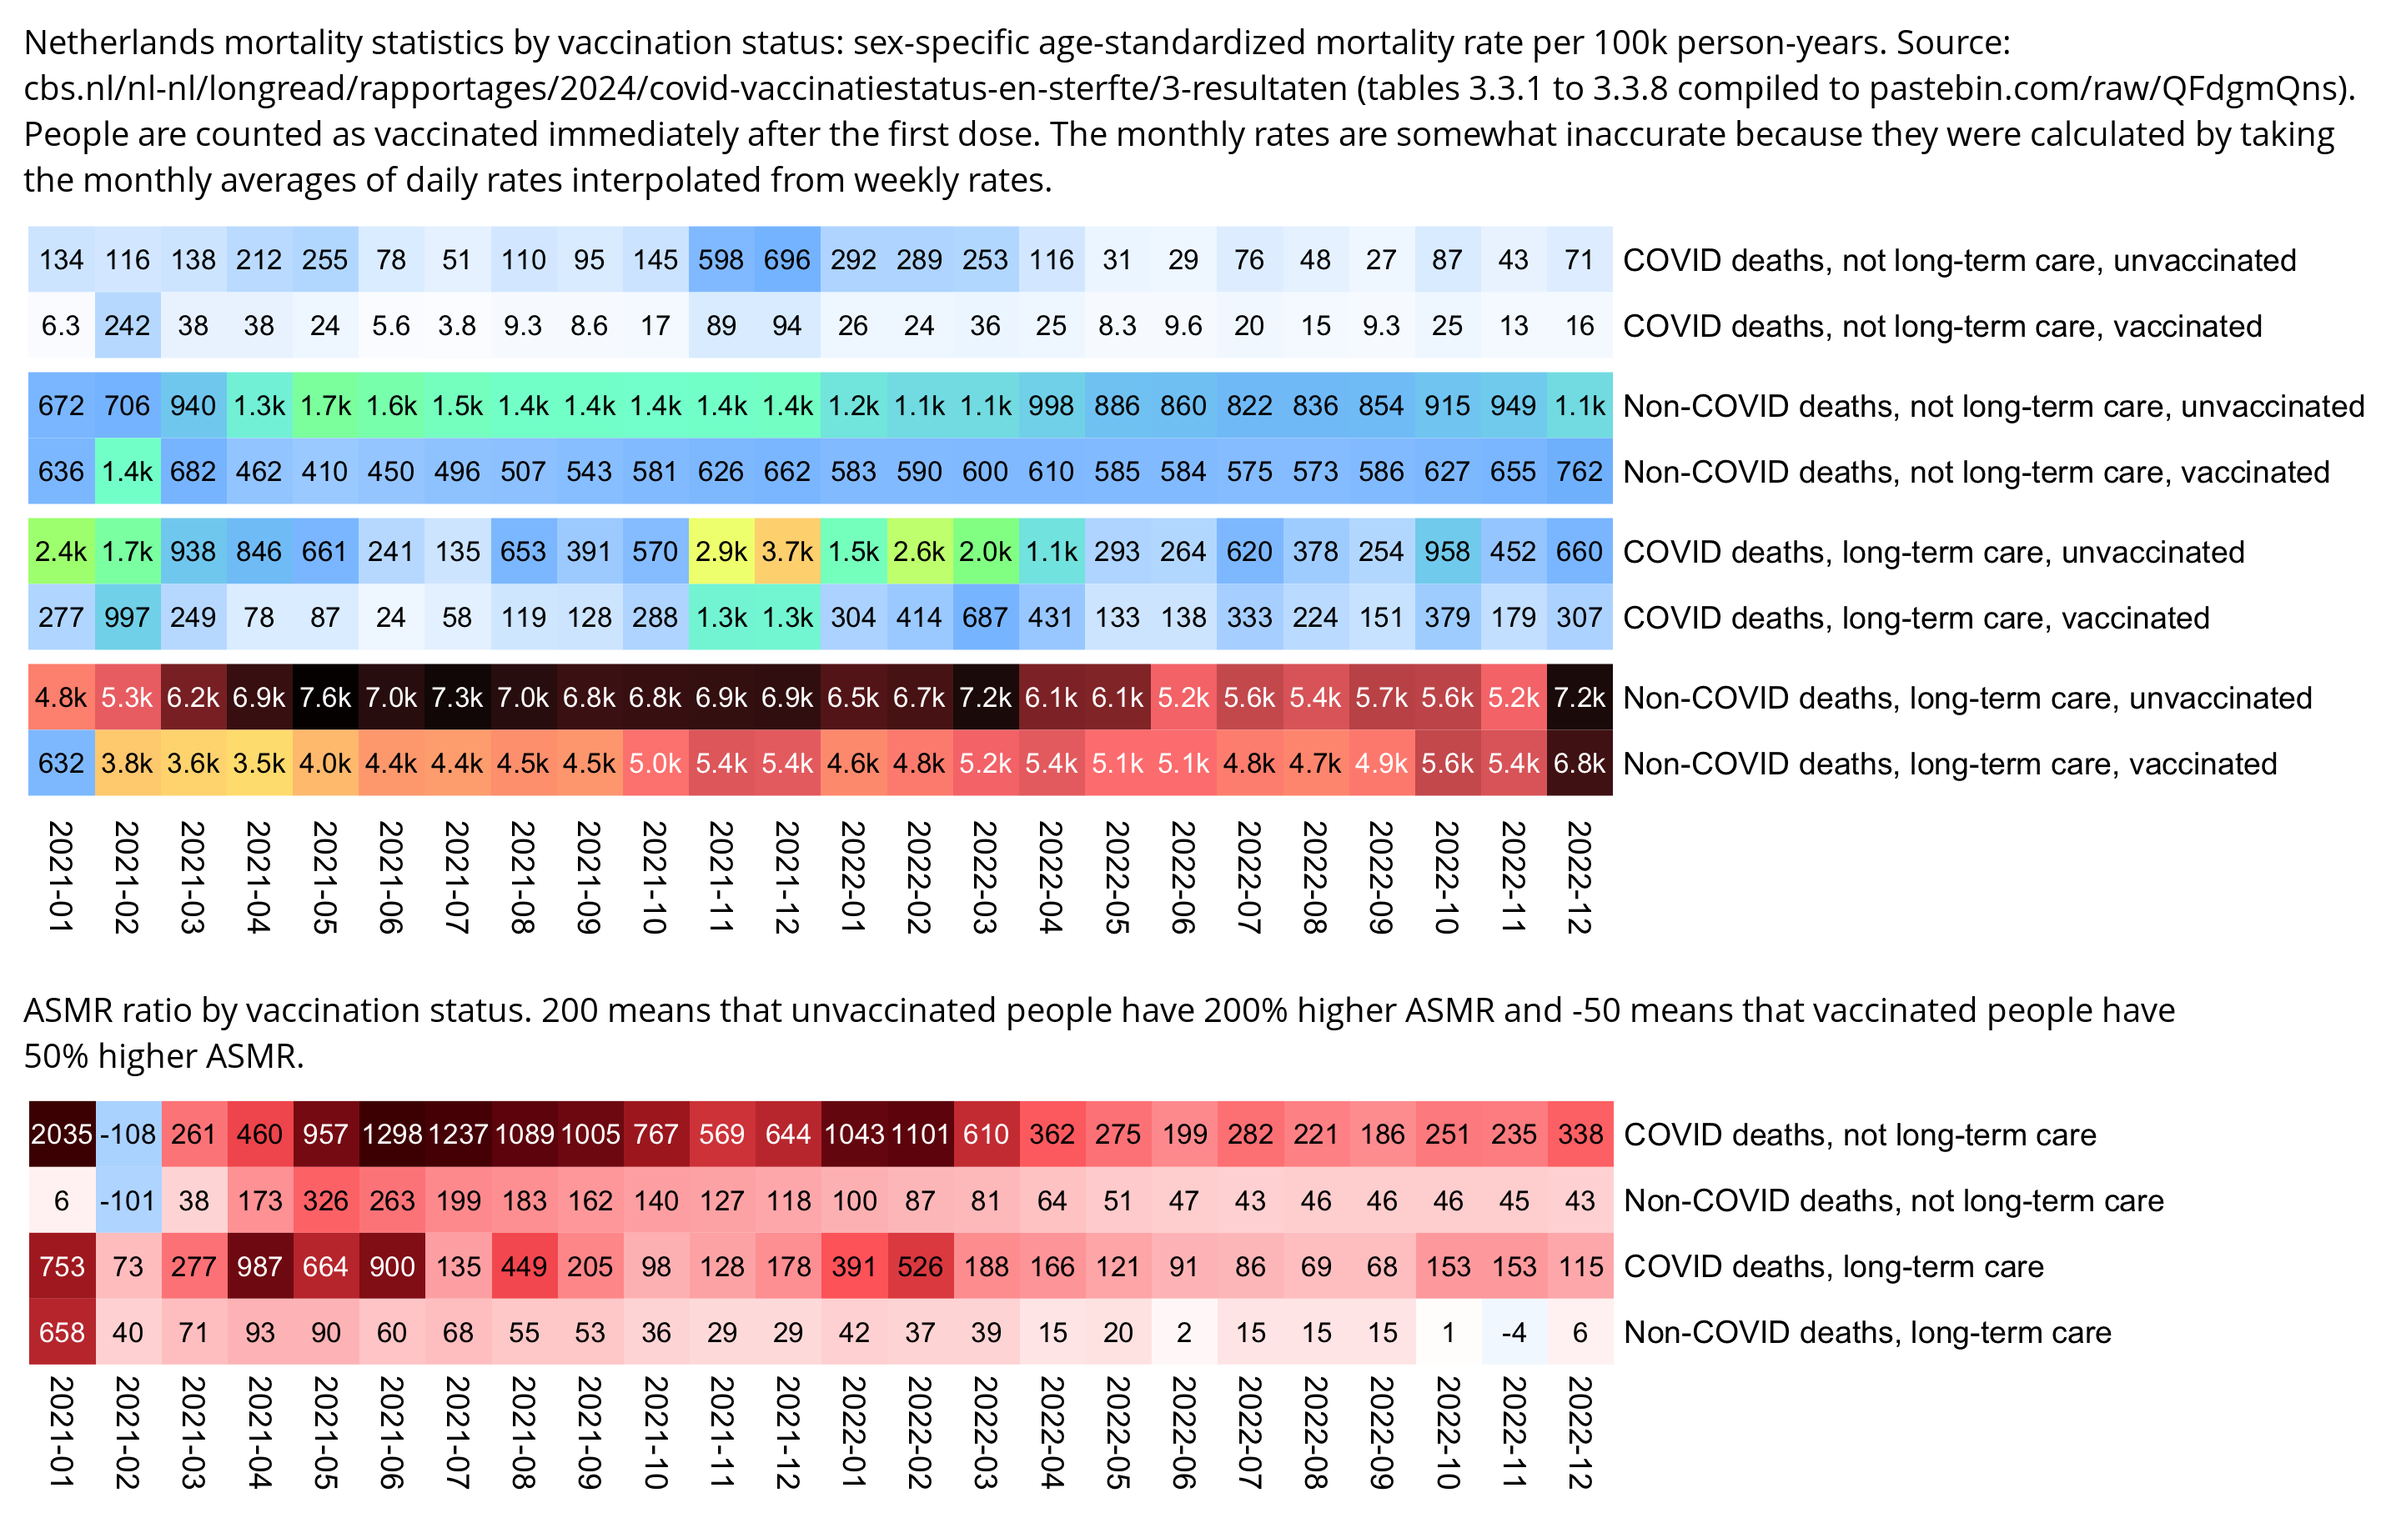
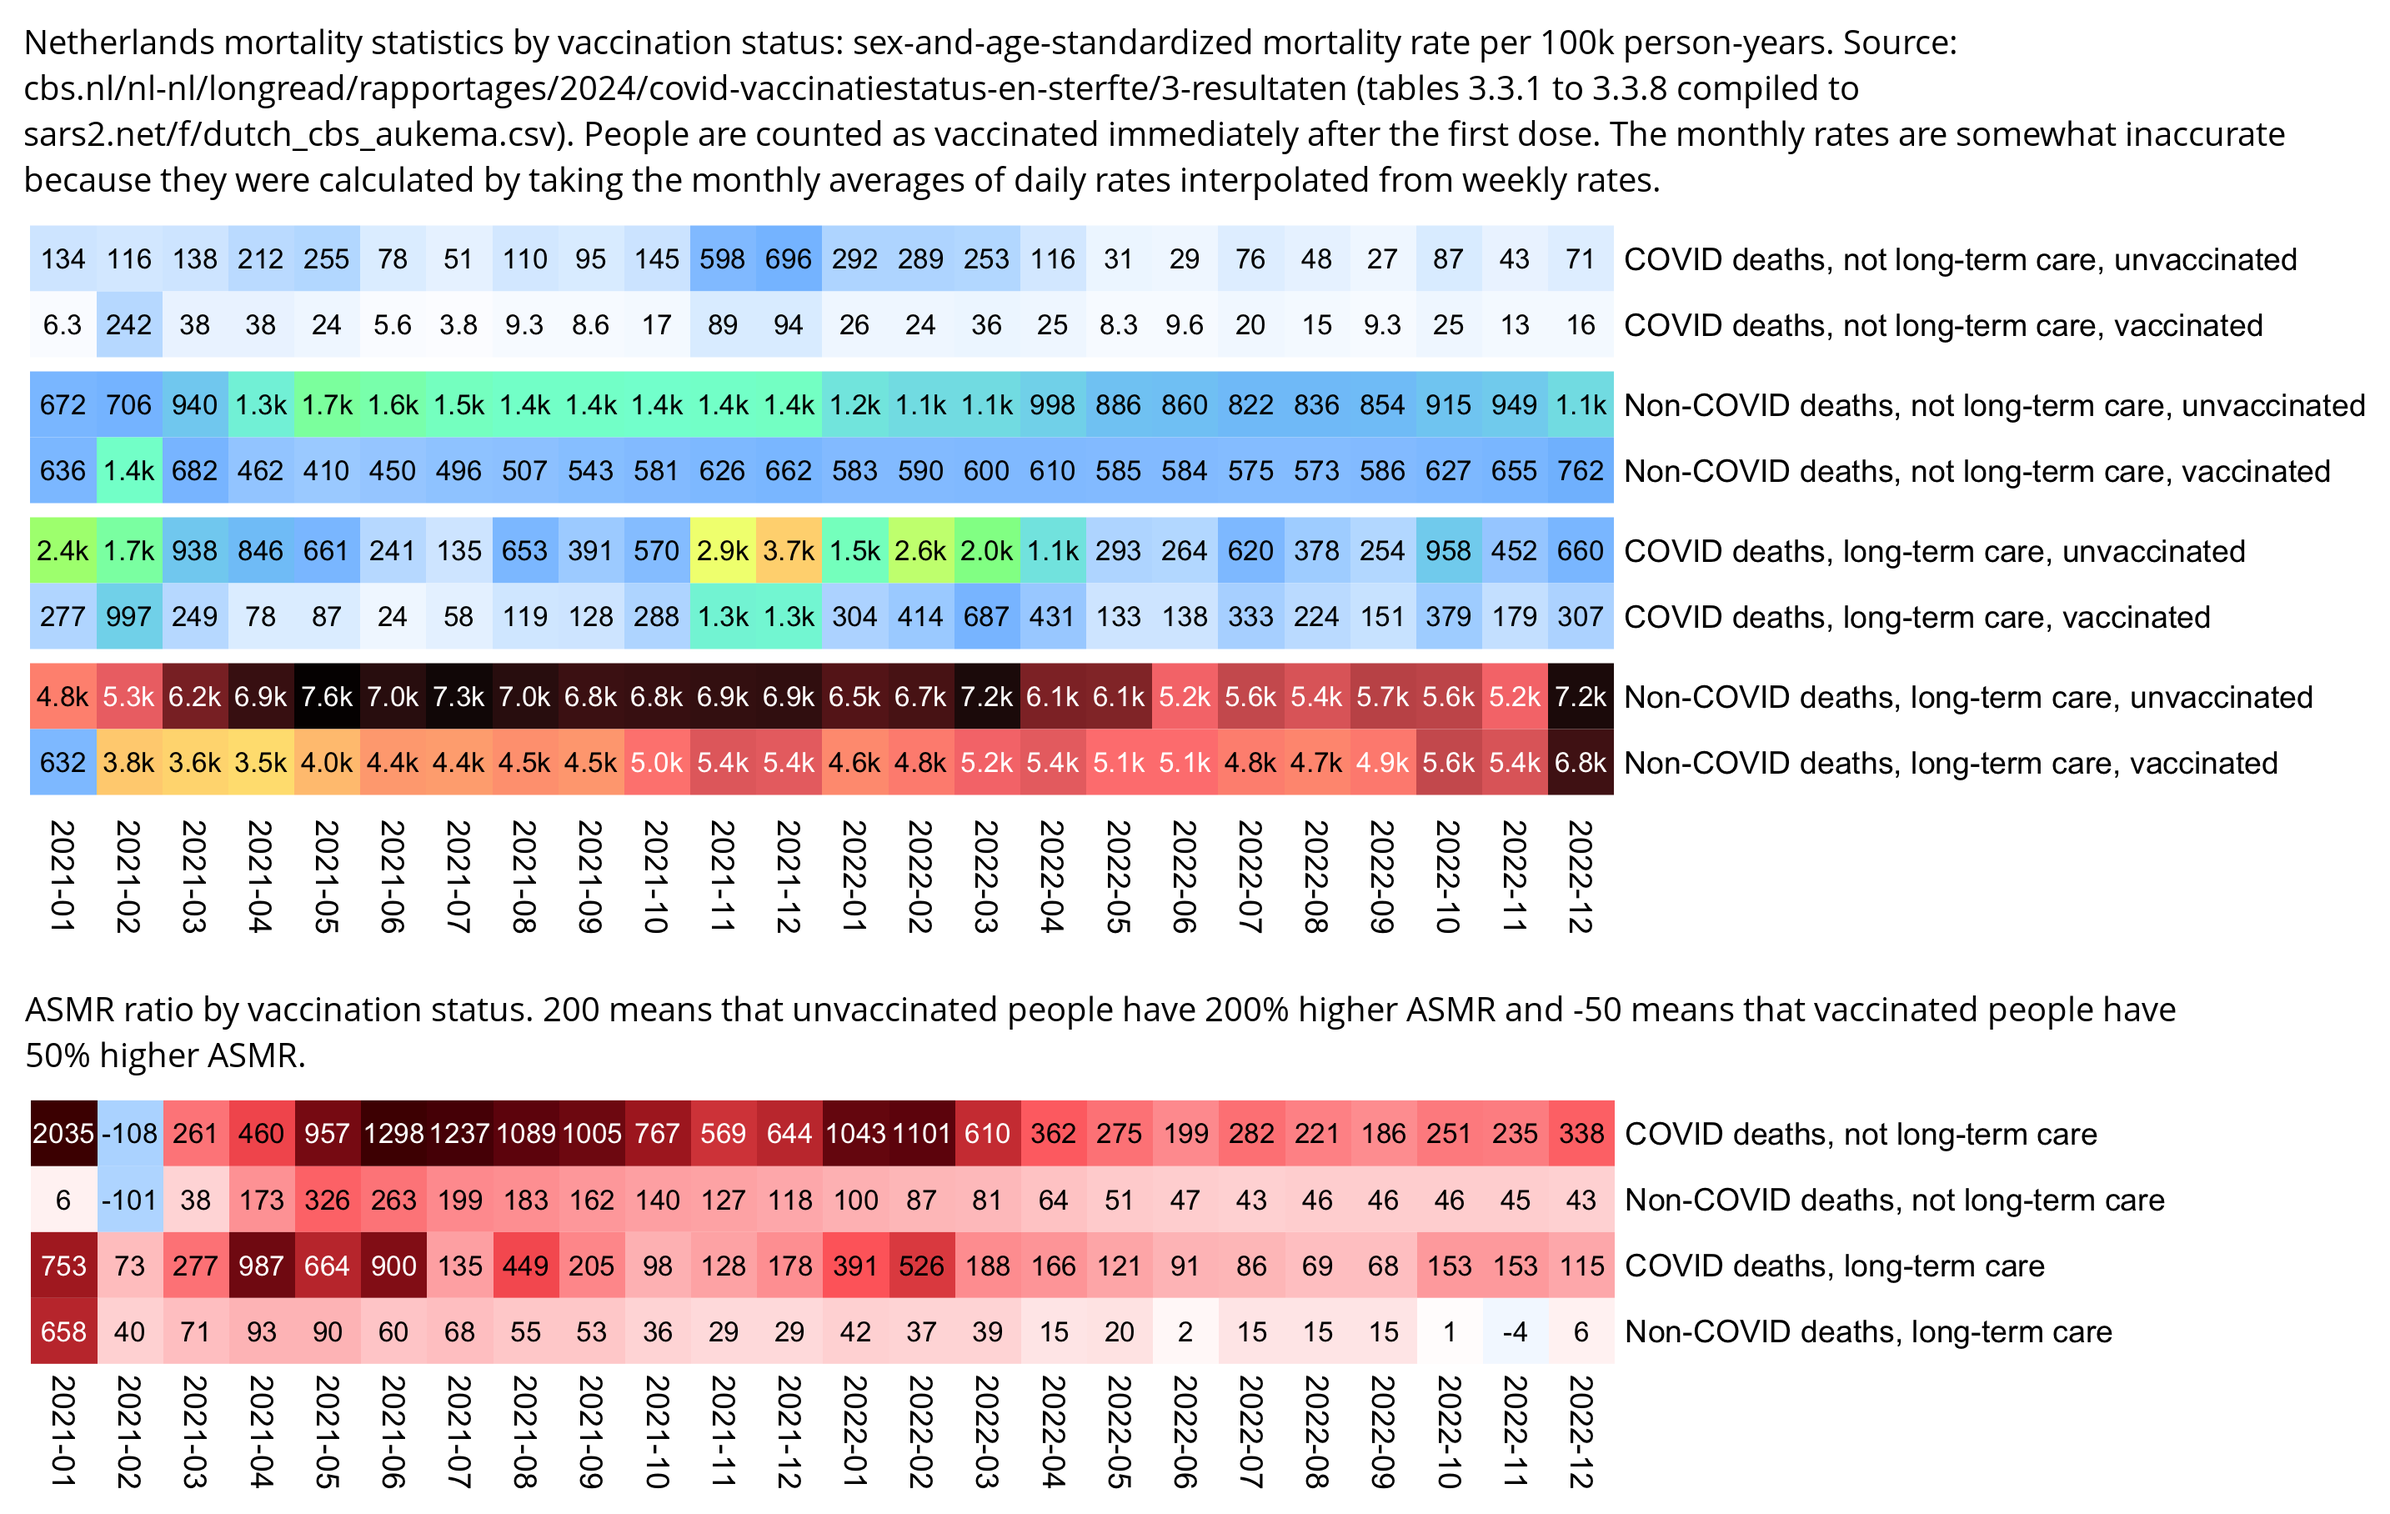
a

Changed region(s): [[0.0, 0.0, 0.9934, 0.6167], [0.0, 0.6476, 0.9002, 0.9868]]

diff --git a/debunk.html b/debunk.html
@@ -64,7 +64,17 @@ th{background:#eee;text-align:left;font-weight:bold}
 <li><a href=#David_Bell_Increase_in_cancer_deaths_in_ages_15_44_at_CDC_WONDER>David Bell: Increase in cancer deaths in ages 15-44 at CDC WONDER</a></li>
 <li><a href=#Clare_Craig_Mortality_rate_by_percentage_of_vaccinated_people_in_US_counties>Clare Craig: Mortality rate by percentage of vaccinated people in US counties</a></li>
 <li><a href=#Martin_Neil_and_Norman_Fenton_Simulation_in_March_2024_preprint_about_the_cheap_trick>Martin Neil and Norman Fenton: Simulation in March 2024 preprint about the cheap trick</a></li>
-<li><a href=#Wouter_Aukema_Dutch_CBS_mortality_statistics_by_vaccination_status>Wouter Aukema: Dutch CBS mortality statistics by vaccination status</a></li>
+<li><a href=#Wouter_Aukema_Dutch_CBS_mortality_statistics_by_vaccination_status>Wouter Aukema: Dutch CBS mortality statistics by vaccination status</a>
+<ul>
+<li><a href=#Tweet_by_Denis_Rancourt>Tweet by Denis Rancourt</a></li>
+<li><a href=#Unvaccinated_people_had_a_bigger_spike_in_all_cause_deaths_in_December_2021>Unvaccinated people had a bigger spike in all-cause deaths in December 2021</a></li>
+<li><a href=#The_spike_in_deaths_in_December_2022_may_have_been_caused_by_influenza>The spike in deaths in December 2022 may have been caused by influenza</a></li>
+<li><a href=#All_cause_ASMR>All-cause ASMR</a></li>
+<li><a href=#Excess_mortality_compared_to_other_variables>Excess mortality compared to other variables</a></li>
+<li><a href=#Percentage_of_COVID_deaths_in_vaccinated_people>Percentage of COVID deaths in vaccinated people</a></li>
+<li><a href=#Heatmap_for_COVID_and_non_COVID_ASMR>Heatmap for COVID and non-COVID ASMR</a></li>
+<li><a href=#Plot_where_deaths_were_double_counted>Plot where deaths were double-counted</a></li>
+</ul></li>
 </ul>
 
 <h2>
@@ -989,6 +999,9 @@ ggsave(&quot;1.png&quot;,width=3,height=3,dpi=450)</pre>
 <h2>
 <a href=#Wouter_Aukema_Dutch_CBS_mortality_statistics_by_vaccination_status id=Wouter_Aukema_Dutch_CBS_mortality_statistics_by_vaccination_status>Wouter Aukema: Dutch CBS mortality statistics by vaccination status</a>
 </h2>
+<h3>
+<a href=#Tweet_by_Denis_Rancourt id=Tweet_by_Denis_Rancourt>Tweet by Denis Rancourt</a>
+</h3>
 <p>Denis Rancourt posted this tweet: [<a href="https://twitter.com/denisrancourt/status/1772434188223824079">https://twitter.com/denisrancourt/status/1772434188223824079</a>]</p>
 <div class="width5">
 <img src="i/debunk-aukema-1.jpg">
@@ -1060,6 +1073,9 @@ system(&quot;f=0.png;mogrify -trim $f;w=`identify -format %w $f`;convert -gravit
 COVID              315        765  1080
 not COVID          568       2750  3318
 COVID pct           36         22    25</pre>
+<h3>
+<a href=#Unvaccinated_people_had_a_bigger_spike_in_all_cause_deaths_in_December_2021 id=Unvaccinated_people_had_a_bigger_spike_in_all_cause_deaths_in_December_2021>Unvaccinated people had a bigger spike in all-cause deaths in December 2021</a>
+</h3>
 <p>The plot below shows that compared to the number of deaths in January 2022, the spike in all-cause deaths in December 2021 was a lot higher in unvaccinated people than vaccinated people. (The unvaccinated population size gets smaller over time as more people get vaccinated, but only a small number of people got their first vaccine dose between the start of December 2021 and the end of January 2022.)</p>
 <div class="width6">
 <img src="i/debunk-aukema-4.png">
@@ -1068,6 +1084,9 @@ COVID pct           36         22    25</pre>
 <div class="width6">
 <img src="i/debunk-aukema-7.png">
 </div>
+<h3>
+<a href=#The_spike_in_deaths_in_December_2022_may_have_been_caused_by_influenza id=The_spike_in_deaths_in_December_2022_may_have_been_caused_by_influenza>The spike in deaths in December 2022 may have been caused by influenza</a>
+</h3>
 <p>The Netherlands had a high number of influenza cases in December 2022, which might explain why there was an increase in deaths even though there was a low number of COVID deaths: [<a href="https://app.powerbi.com/view?r=eyJrIjoiYWU4YjUyN2YtMDBkOC00MGI1LTlhN2UtZGE5NThjY2E1ZThhIiwidCI6ImY2MTBjMGI3LWJkMjQtNGIzOS04MTBiLTNkYzI4MGFmYjU5MCIsImMiOjh9">https://app.powerbi.com/view?r=eyJrIjoiYWU4YjUyN2YtMDBkOC00MGI1LTlhN2UtZGE5NThjY2E1ZThhIiwidCI6ImY2MTBjMGI3LWJkMjQtNGIzOS04MTBiLTNkYzI4MGFmYjU5MCIsImMiOjh9</a>]</p>
 <div class="width9">
 <img src="i/debunk-aukema-5.jpg">
@@ -1076,10 +1095,9 @@ COVID pct           36         22    25</pre>
 <div class="width6">
 <img src="i/debunk-aukema-6.png">
 </div>
-<p>In one plot Aukema double-counted deaths, so he had about 5000-7500 deaths per week even though it should've been half of that: [<a href="https://twitter.com/UncleJo46902375/status/1763550999916990885">https://twitter.com/UncleJo46902375/status/1763550999916990885</a>]</p>
-<div class="width5">
-<img src="i/debunk-aukema-3.jpg">
-</div>
+<h3>
+<a href=#All_cause_ASMR id=All_cause_ASMR>All-cause ASMR</a>
+</h3>
 <p>Even though adding together ratios is not possible in many cases, in the case of this dataset it's possible to calculate all-cause ASMR by adding together COVID and non-COVID ASMR, because the denominators are the same:</p>
 <pre>&gt; stdpop=c(70000,30000)
 &gt; t=read.table(header=T,text=&quot;
@@ -1097,18 +1115,33 @@ COVID pct           36         22    25</pre>
 <div class="width6">
 <img src="i/debunk-aukema-8.jpg">
 </div>
+<h3>
+<a href=#Excess_mortality_compared_to_other_variables id=Excess_mortality_compared_to_other_variables>Excess mortality compared to other variables</a>
+</h3>
 <p>Netherlands is also a bad country for calculating a Rancourtian correlation between all-cause mortality and vaccine doses, because the first two doses were rolled out between COVID waves, the first booster was also given earlier than in other countries where it coincided with the Omicron wave, and for some reason there was a small number of deaths during the Omicron wave even though the number of cases and PCR positivity were high:</p>
 <div class="width6">
 <img src="i/debunk-aukema-9.png">
 </div>
-<p>Aukema posted this plot which showed that vaccinated people accounted for about 82% of COVID deaths: [<a href="https://twitter.com/waukema/status/1763512462412845432">https://twitter.com/waukema/status/1763512462412845432</a>]</p>
+<h3>
+<a href=#Percentage_of_COVID_deaths_in_vaccinated_people id=Percentage_of_COVID_deaths_in_vaccinated_people>Percentage of COVID deaths in vaccinated people</a>
+</h3>
+<p>Aukema also posted the plot below which shows that vaccinated people accounted for about 82% of COVID deaths. [<a href="https://twitter.com/waukema/status/1763512462412845432">https://twitter.com/waukema/status/1763512462412845432</a>] However according to the ECDC's vaccine tracker, about 96% of the Dutch population of ages 60 and above had been vacccinated by December 2021, and after that the percentage remained at 96.3% until 2023. [<a href="https://vaccinetracker.ecdc.europa.eu/public/extensions/COVID-19/vaccine-tracker.html#uptake-tab">https://vaccinetracker.ecdc.europa.eu/public/extensions/COVID-19/vaccine-tracker.html#uptake-tab</a>] The percentage might be too high, because in other countries the percentage of vaccinated people in elderly age groups sometimes reaches over 100% (and for example in New Zealand similar statistics were based on the Health Service User population where unvaccinated people are underrepresented, because many people who were not previously included in the population were added to it after they got vaccinated). But anyway, in the elderly age groups which account for most deaths, the percentage of vaccinated people is still probably much higher than 82%.</p>
 <div class="width5">
 <img src="i/debunk-aukema-10.jpg">
 </div>
-<p>However according to the ECDC's vaccine tracker, about 96% of the Dutch population of ages 60 and above had been vacccinated by December 2021, and after that the percentage remained at 96.3% until 2023. [<a href="https://vaccinetracker.ecdc.europa.eu/public/extensions/COVID-19/vaccine-tracker.html#uptake-tab">https://vaccinetracker.ecdc.europa.eu/public/extensions/COVID-19/vaccine-tracker.html#uptake-tab</a>] The percentage might be too high because in other countries these statistics for the percentage of vaccinated people by age group are unreliable. But in the elderly age groups which account for most deaths, the percentage of vaccinated people is still probably much higher than 82%.</p>
-<p>The heatmap below shows that in February 2021 among people who had not been insured for long-term care, vaccinated people had about twice as high ASMR as unvaccinated people, which might be because vulnerable groups of people were priorized during the early vaccine rollout. However after that unvaccinated people had higher ASMR than unvaccinated people almost every month, regardless of whether you look at COVID deaths or non-COVID deaths or if you look at people in long-term care or not. The last row of the second heatmap shows that among people in long-term care, vaccinated people initially had over 50% higher non-COVID mortality than unvaccinated people (which was probably beacuse of the healthy vaccinee effect), but the difference had reached close to zero by the end of 2022:</p>
+<h3>
+<a href=#Heatmap_for_COVID_and_non_COVID_ASMR id=Heatmap_for_COVID_and_non_COVID_ASMR>Heatmap for COVID and non-COVID ASMR</a>
+</h3>
+<p>The heatmap below shows that in February 2021 among people who had not been insured for long-term care, vaccinated people had about twice as high ASMR as unvaccinated people, which might be because vulnerable groups of people were priorized during the early vaccine rollout. However after that unvaccinated people had higher ASMR than unvaccinated people almost every month, regardless of whether you look at COVID deaths or non-COVID deaths or if you look at people in long-term care or not. Among people who had not been vaccinated for long-term care, there were many months when unvaccinated people had over 10 times higher COVID ASMR than vaccinated people. The last row of the second heatmap shows that among people in long-term care, vaccinated people initially had over 50% higher non-COVID mortality than unvaccinated people (which was probably beacuse of the healthy vaccinee effect), but the difference had reached close to zero by the end of 2022:</p>
 <div class="width9">
 <img src="i/debunk-aukema-11.png">
+</div>
+<h3>
+<a href=#Plot_where_deaths_were_double_counted id=Plot_where_deaths_were_double_counted>Plot where deaths were double-counted</a>
+</h3>
+<p>In one plot Aukema double-counted deaths, so he had about 5000-7500 deaths per week even though it should've been half of that: [<a href="https://twitter.com/UncleJo46902375/status/1763550999916990885">https://twitter.com/UncleJo46902375/status/1763550999916990885</a>]</p>
+<div class="width5">
+<img src="i/debunk-aukema-3.jpg">
 </div>
 <script>
 let q=document.querySelectorAll('a,code,pre')
